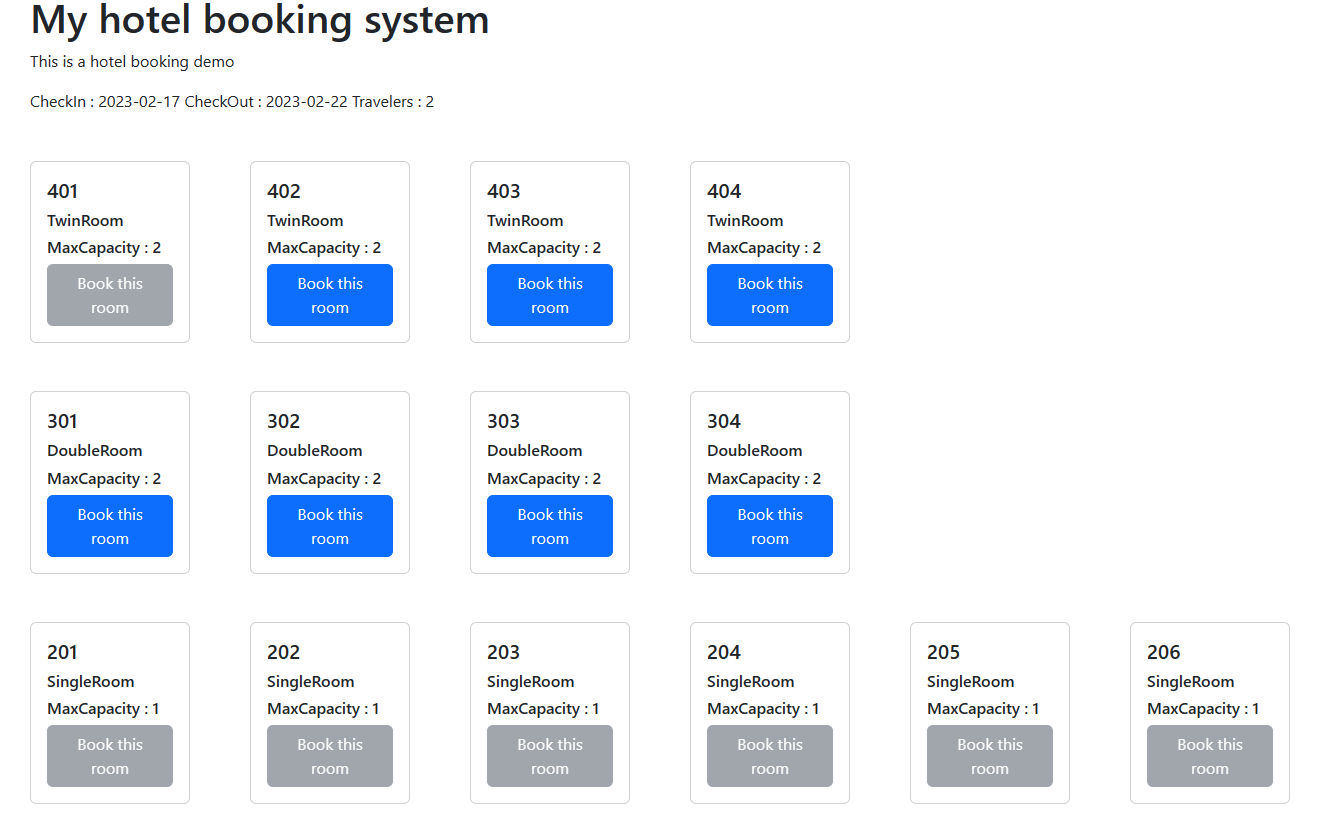
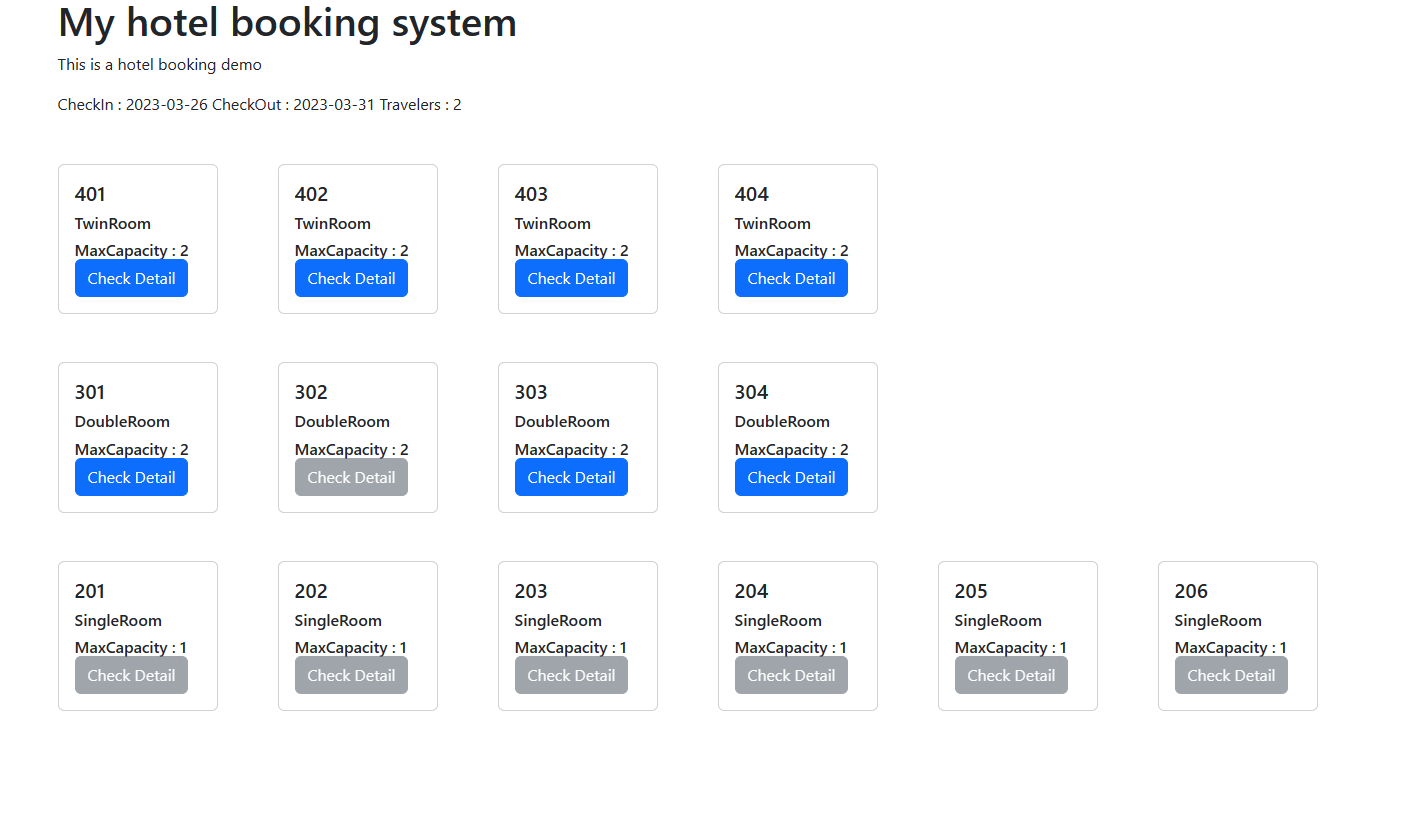
updated frontend

diff --git a/src/main/resources/templates/users/roomsInformation.html b/src/main/resources/templates/users/roomsInformation.html
@@ -6,6 +6,7 @@
 
   <title>Title</title>
   <link href="https://cdn.jsdelivr.net/npm/bootstrap@5.3.0-alpha1/dist/css/bootstrap.min.css" rel="stylesheet" integrity="sha384-GLhlTQ8iRABdZLl6O3oVMWSktQOp6b7In1Zl3/Jr59b6EGGoI1aFkw7cmDA6j6gD" crossorigin="anonymous">
+  <link rel="stylesheet" type="text/css" th:href="@{/css/room_info.css}" href="../../static/css/room_info.css">
 </head>
 <body class="container">
 <h1 class="title">My hotel booking system</h1>
@@ -24,19 +25,35 @@
 
     <div class="col-sm-6 mb-3 mb-sm-0" th:each="room : ${floor}">
       <div class="card" style="width: 10rem;">
-        <div class="card-body">
-          <h5 class="card-title" th:text="${room.roomNum}">(Room Number)</h5>
-          <h6 class="card-text" th:text="${room.roomType} + 'Room'">(Room Type)</h6>
-          <h6 class="card-text" th:text="'MaxCapacity : ' + ${room.roomCapacity}">(Room Capacity)</h6>
-          <a th:class="${room.isAvailable}? 'btn btn-primary' : 'btn btn-secondary disabled'"
-             th:href="@{/roomsInformation
-             (roomNum=${room.roomNum},
-             checkInDate=${date.checkInDate},
-             checkOutDate=${date.checkOutDate},
-             numOfPeople=${date.numOfPeople},
-             )}"
-             href="./guestBookingForm.html"
-             class="btn btn-primary">Book this room</a>
+        <div class="room_content">
+          <h2 class="me-5" th:text="${room.roomNum} + ':'">(Room Number):   </h2>
+          <p>Our cozy hotel room features a comfortable queen-sized bed with plush linens for a good night's sleep. The room is tastefully decorated with modern furnishings and soothing colors to create a relaxing ambiance. For your entertainment, there is a flat-screen TV and high-speed internet access.</p>
+        </div>
+        <div class="card_content_and_buttons">
+          <div class="card-body">
+            <div class="card_content">
+              <h5 class="card-title" th:text="${room.roomNum}">(Room Number)</h5>
+              <h6 class="card-text" th:text="${room.roomType} + 'Room'">(Room Type)</h6>
+              <h6 class="card-text" th:text="'MaxCapacity : ' + ${room.roomCapacity}">(Room Capacity)</h6>
+            </div>
+
+            <div class="two_buttons">
+              <div th:class="${room.isAvailable}? 'btn btn-primary' : 'btn btn-secondary disabled'"
+                 class="btn btn-primary" id="check_detail">Check Detail
+              </div>
+
+              <a th:class="${room.isAvailable}? 'btn btn-primary' : 'btn btn-secondary disabled'"
+                   th:href="@{/roomsInformation
+                 (roomNum=${room.roomNum},
+                 checkInDate=${date.checkInDate},
+                 checkOutDate=${date.checkOutDate},
+                 numOfPeople=${date.numOfPeople},
+                 )}"
+                 href="guestBookingForm.html"
+                 class="btn btn-primary" id="book">Book
+              </a>
+            </div>
+          </div>
         </div>
       </div>
     </div>
@@ -49,10 +66,7 @@
 
 
 
-
-
-
-
 <script src="https://cdn.jsdelivr.net/npm/bootstrap@5.3.0-alpha1/dist/js/bootstrap.bundle.min.js" integrity="sha384-w76AqPfDkMBDXo30jS1Sgez6pr3x5MlQ1ZAGC+nuZB+EYdgRZgiwxhTBTkF7CXvN" crossorigin="anonymous"></script>
+<script th:src="@{/js/room_info.js}" src="../../static/js/room_info.js"></script>
 </body>
 </html>

diff --git a/src/main/resources/static/js/room_info.js b/src/main/resources/static/js/room_info.js
@@ -1,0 +1,46 @@
+const roomInfoBtns = document.querySelectorAll('[id="check_detail"]');
+const roomInfoBtnsLength = roomInfoBtns.length
+const cards = document.querySelectorAll(".card")
+const cardsLength = cards.length
+const roomInfoBtnInitText = roomInfoBtns[0].textContent
+let selected = false;
+
+//cards[0].classList.toggle("active")
+for(let i = 0; i < roomInfoBtnsLength; i++){
+
+    roomInfoBtns[i].addEventListener("click", function (){
+        console.log("BTn be clicked")
+        cards[i].classList.toggle("active")
+
+        if(roomInfoBtns[i].textContent === roomInfoBtnInitText){
+            roomInfoBtns[i].textContent = "Back"
+            selected = true
+        } else {
+            roomInfoBtns[i].textContent = roomInfoBtnInitText
+            selected = false
+        }
+
+        if(selected){
+            hideAllOthers(i)
+        }else {
+            releaseAll()
+        }
+
+    })
+}
+
+function hideAllOthers(index){
+    for(let i = 0; i < cardsLength; i++){
+        if(i != index){
+            cards[i].style.display="none";
+        }
+    }
+}
+
+function releaseAll(){
+    for(let i = 0; i < cardsLength; i++){
+        cards[i].style.display="block";
+    }
+}
+
+

diff --git a/src/main/resources/static/css/room_info.css b/src/main/resources/static/css/room_info.css
@@ -1,0 +1,63 @@
+*{
+    box-sizing: border-box;
+}
+
+.room_content{
+    position: fixed;
+    inset: 0;
+    margin: auto;
+    width: 0;
+    height: 0;
+    background-color: cadetblue;
+    border-radius: 25px;
+    display: flex;
+    justify-content: center;
+    align-items: center;
+    opacity: 0;
+    transform: scale(0);
+    z-index: 1;
+}
+
+.two_buttons{
+    display: flex;
+    flex-direction: row;
+    z-index: 2;
+}
+
+#book{
+    display: none;
+}
+
+.card.active #book{
+    display: block;
+    margin-left: 600px;
+}
+
+.card.active .room_content{
+    padding: 50px;
+    width: 800px;
+    height: 400px;
+    opacity: 1;
+    transform: scale(1);
+}
+
+.card.active{
+    border: none;
+}
+
+.card.active .card_content{
+    display: none;
+}
+.card.active .two_buttons{
+    position: fixed;
+    top: 50%;
+    left: 30%;
+
+    transform: translateY(230px);
+}
+
+.card.active #check_detail{
+    background-color: darkred;
+    border: darkred;
+    content: none;
+}
